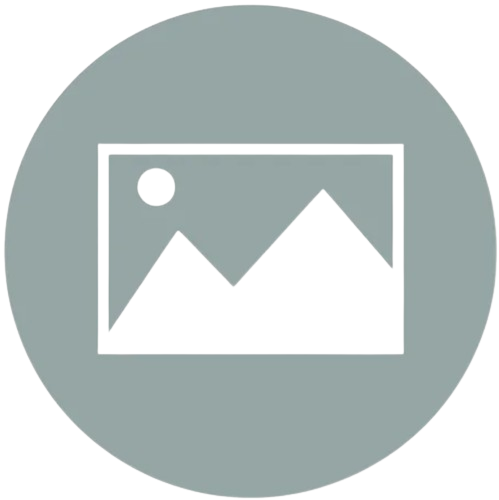
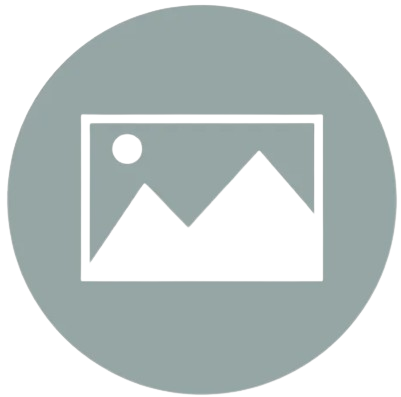
changes

diff --git a/public/sass/main.scss b/public/sass/main.scss
@@ -117,7 +117,7 @@ body{
 
 :root{
     --empty-back: #e6e8e9;
-    --slider-back: #e6e8e9;
+    --slider-back: #f2f2f2;
     --border-color: #e0e6ed;
     --button-hover: rgba(0, 0, 0, .05);
     --background_: rgba(0, 0, 0, .07);
@@ -135,7 +135,7 @@ body{
 
 body.dark{
     --empty-back: rgba(0, 0, 0, .3);
-    --slider-back: #000;
+    --slider-back: rgba(0, 0, 0, .3);
     --border-color: #1b2e4b;
     --button-hover: rgba(0, 0, 0, .25);
     --background_: rgba(0, 0, 0, .2);
@@ -576,7 +576,11 @@ body.dark{
         tbody{ td{ display: none; } }
     }
     img{
-        background: none;
+        background: var(--slider-back);
+        &.empty{
+            border-radius: 50%;
+            opacity: .5;
+        }
     }
 }
 
@@ -615,12 +619,12 @@ body.dark{
         img, video, iframe {
             min-height: 10%; min-width: 10%; width: auto; height: auto;
             max-height: 90%; max-width: 90%; cursor: default;
-            background: rgba(0, 0, 0, .3);
+            background: none;
             &video{ cursor: pointer; }
             &.empty{
                 width: 8rem; height: 8rem;
                 opacity: .3;
-                background: var(--slider-back);
+                background: none;
             }
         }
         .actions{
@@ -661,7 +665,7 @@ body.dark{
     .banner{
         width: 17rem; height: 10rem;
         overflow: hidden; border-radius: .5rem;
-        background: var(--empty-back);
+        background: var(--slider-back);
 
         .edit-image{
             top: 0; left: 0; display: flex; justify-content: center;
@@ -678,11 +682,11 @@ body.dark{
             width: 100%; height: 100%;
             display: flex; justify-content: center;
             align-items: center; cursor: default;
-
+            background: none;
             img{ width: 100%; height: 100%; }
             .empty{
                 max-width: 5rem; max-height: 5rem;
-                opacity: .3; background: var(--empty-back);
+                opacity: .3; background: none;
             }
         }
         &.user-banner{
@@ -720,7 +724,7 @@ body.dark{
         }
         img{
             width: 100%; height: 100%;
-            background: rgba(0, 0, 0, .3);
+            background: var(--slider-back);
         }
     }
     .show-showing-data{

diff --git a/app/component/table.jsx b/app/component/table.jsx
@@ -121,7 +121,7 @@ export default function Table ({ columns, data, add, edit, delete_, search, asyn
                                     <path opacity="0.5" stroke="currentColor" strokeWidth="1.5" d="M6.5 6C6.55588 6 6.58382 6 6.60915 5.99936C7.43259 5.97849 8.15902 5.45491 8.43922 4.68032C8.44784 4.65649 8.45667 4.62999 8.47434 4.57697L8.57143 4.28571C8.65431 4.03708 8.69575 3.91276 8.75071 3.8072C8.97001 3.38607 9.37574 3.09364 9.84461 3.01877C9.96213 3 10.0932 3 10.3553 3H13.6447C13.9068 3 14.0379 3 14.1554 3.01877C14.6243 3.09364 15.03 3.38607 15.2493 3.8072C15.3043 3.91276 15.3457 4.03708 15.4286 4.28571L15.5257 4.57697C15.5433 4.62992 15.5522 4.65651 15.5608 4.68032C15.841 5.45491 16.5674 5.97849 17.3909 5.99936C17.4162 6 17.4441 6 17.5 6"></path>
                                 </svg>
 
-                                Delete
+                                <span className='font-thin tracking-wide'>Delete</span>
 
                             </button>
                         }
@@ -134,7 +134,7 @@ export default function Table ({ columns, data, add, edit, delete_, search, asyn
                                     <line x1="5" y1="12" x2="19" y2="12"></line>
                                 </svg>
 
-                                {btn_name || 'Add New'}
+                                <span className='font-thin tracking-wide'>{btn_name || 'Add New'}</span>
 
                             </button>
                         }

diff --git a/app/component/default.jsx b/app/component/default.jsx
@@ -26,7 +26,7 @@ export default function DefaultLayout ({ children }) {
 
     const active_user = async() => {
         
-        const response = await api('auth/user', {token: get_session('user')?.token || ''});
+        const response = await api('auth/user', {token: get_session('user')?.token});
         if ( response.user?.token ) dispatch(toggle_user({...response.user, active: true, update: date()}));
         else dispatch(toggle_user({}));
 
@@ -66,17 +66,16 @@ export default function DefaultLayout ({ children }) {
     }
     useEffect(() => {
 
-        if ( started ) { setAnimation(false); setTimeout(_ => setAnimation(config.animation)); }
-        else setStarted(true);
-
-        active_user();
         active_link();
         setTimeout(() => { setLoader(false); }, 500);
         dispatch(toggle_user(get_session('user')));
+        if ( started ) { setAnimation(false); setTimeout(_ => setAnimation(config.animation)); }
+        else setStarted(true);
 
         if (window.innerWidth < 1024 && config.side) dispatch(toggle_side());
         if ( !get_session('user')?.token ) return router.replace('/auth/login');
         if ( get_session('user')?.token && !get_session('user')?.active ) return router.replace('/auth/lock');
+        active_user();
 
     }, [pathname]);
     useEffect(() => {

diff --git a/app/account/page.jsx b/app/account/page.jsx
@@ -1,6 +1,6 @@
 "use client";
 import { toggle_user } from '@/public/script/store';
-import { api, alert_msg, file_info, date, host, fix_date, print } from '@/public/script/public';
+import { api, alert_msg, file_info, date, host, fix_date, get_session, print } from '@/public/script/public';
 import { useEffect, useState, useRef } from 'react';
 import { useDispatch, useSelector } from 'react-redux';
 import Loader from '@/app/component/loader';
